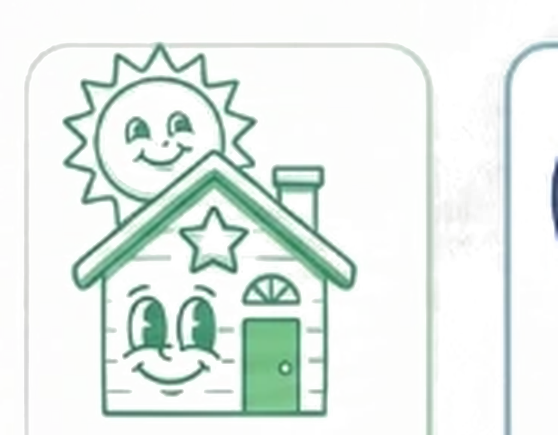
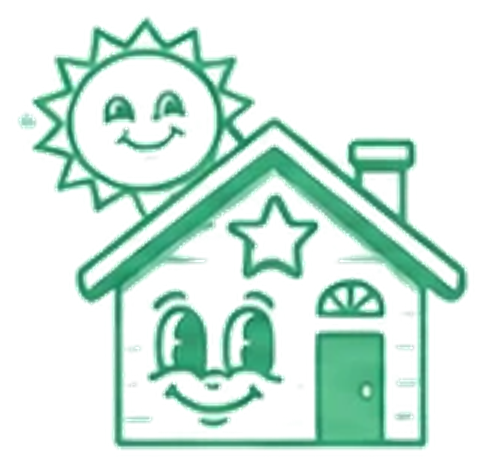
Swap in new badge artwork and raise cause badges to a 10-hour threshold
Replaced 16 of the 17 badge icon files with the new illustrated set
(same filenames, so no code changes needed to wire them in) -- left
cause-seniors.png and weekly-warrior.png as-is since no replacements
were given for those. Where the new set had two conflicting "Century
Club" icons, kept only the "100" one for milestone-100hr.png.

Also raised every cause badge's threshold from 5 to 10 hours in that
category, so the full badge (and its spot on the profile banner) now
takes more sustained volunteering in one cause to earn. The progress
bar toward an unearned cause badge already existed in BadgeGrid.

Claude-Session: https://claude.ai/code/session_015BfFPJaa4NoTjtC52TamtJ

diff --git a/src/lib/badges.ts b/src/lib/badges.ts
@@ -27,17 +27,17 @@ const CATEGORY_BADGES: Record<
   OpportunityCategory,
   { emoji: string; icon?: string; label: string; threshold: number }
 > = {
-  environment: { emoji: "\u{1F30A}", icon: "/badges/cause-environment.png", label: "Ocean Hero", threshold: 5 },
-  education: { emoji: "\u{1F9E0}", icon: "/badges/cause-education.png", label: "Brainiac Buddy", threshold: 5 },
-  food_security: { emoji: "\u{1F96B}", icon: "/badges/cause-food_security.png", label: "Snack Pack Hero", threshold: 5 },
-  homelessness: { emoji: "\u{1F3E0}", icon: "/badges/cause-homelessness.png", label: "Shelter Star", threshold: 5 },
-  animal_welfare: { emoji: "\u{1F43E}", icon: "/badges/cause-animal_welfare.png", label: "Furry Friend", threshold: 5 },
-  health: { emoji: "\u{1F9E1}", icon: "/badges/cause-health.png", label: "Wellness Warrior", threshold: 5 },
-  seniors: { emoji: "\u{1F3B7}", icon: "/badges/cause-seniors.png", label: "Golden Years Guru", threshold: 5 },
-  youth: { emoji: "\u{1F3AE}", icon: "/badges/cause-youth.png", label: "Youth Responder", threshold: 5 },
-  disaster_relief: { emoji: "\u{26A1}", icon: "/badges/cause-disaster_relief.png", label: "Rapid Responder", threshold: 5 },
-  arts_culture: { emoji: "\u{1F3A8}", icon: "/badges/cause-arts_culture.png", label: "Culture Vulture", threshold: 5 },
-  other: { emoji: "\u{2B50}", icon: "/badges/cause-other.png", label: "Jack of All Trades", threshold: 5 },
+  environment: { emoji: "\u{1F30A}", icon: "/badges/cause-environment.png", label: "Ocean Hero", threshold: 10 },
+  education: { emoji: "\u{1F9E0}", icon: "/badges/cause-education.png", label: "Brainiac Buddy", threshold: 10 },
+  food_security: { emoji: "\u{1F96B}", icon: "/badges/cause-food_security.png", label: "Snack Pack Hero", threshold: 10 },
+  homelessness: { emoji: "\u{1F3E0}", icon: "/badges/cause-homelessness.png", label: "Shelter Star", threshold: 10 },
+  animal_welfare: { emoji: "\u{1F43E}", icon: "/badges/cause-animal_welfare.png", label: "Furry Friend", threshold: 10 },
+  health: { emoji: "\u{1F9E1}", icon: "/badges/cause-health.png", label: "Wellness Warrior", threshold: 10 },
+  seniors: { emoji: "\u{1F3B7}", icon: "/badges/cause-seniors.png", label: "Golden Years Guru", threshold: 10 },
+  youth: { emoji: "\u{1F3AE}", icon: "/badges/cause-youth.png", label: "Youth Responder", threshold: 10 },
+  disaster_relief: { emoji: "\u{26A1}", icon: "/badges/cause-disaster_relief.png", label: "Rapid Responder", threshold: 10 },
+  arts_culture: { emoji: "\u{1F3A8}", icon: "/badges/cause-arts_culture.png", label: "Culture Vulture", threshold: 10 },
+  other: { emoji: "\u{2B50}", icon: "/badges/cause-other.png", label: "Jack of All Trades", threshold: 10 },
 };
 
 const WEEKLY_TARGET_HOURS = 5;
